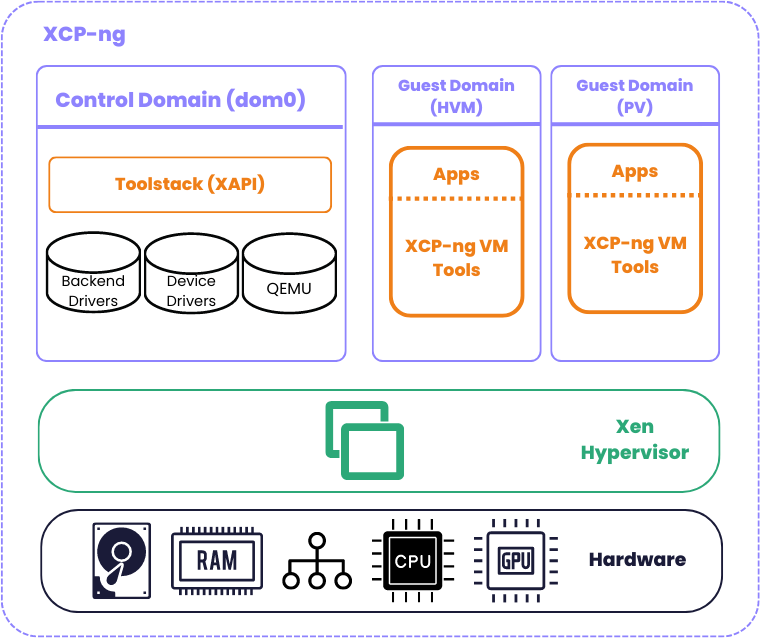
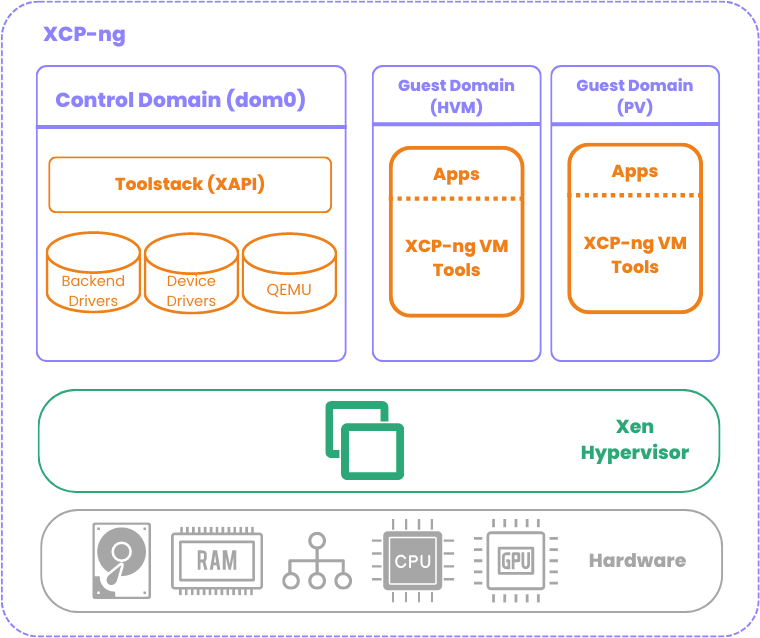
Update images with better ones

diff --git a/docs/intro.md b/docs/intro.md
@@ -35,7 +35,7 @@ XCP-ng is distrubuted as an ISO file you can [download here](installation#downlo
 
 In terms of general architecture, XCP-ng and Xen Orchestra are relatively close. See for yourself:
 
-![](../static/img/xcp-ng-vs-vmware.png)
+![](../static/img/vsvmware.png)
 
 ## Introducing XCP-ng in video
 
